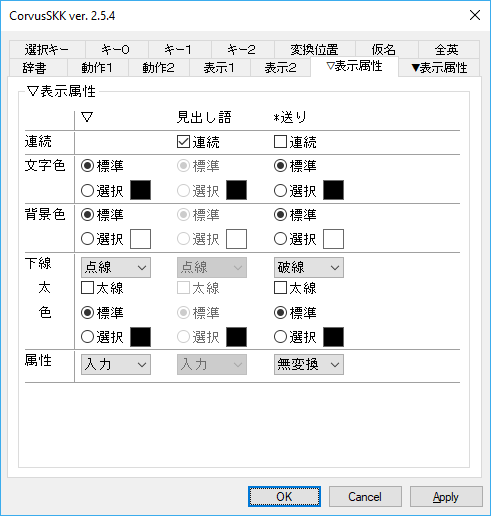
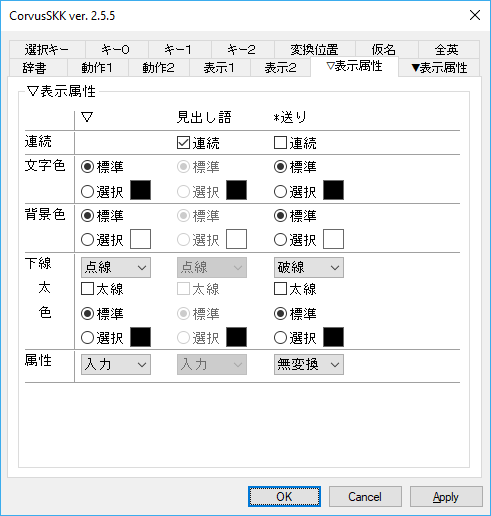
2.5.5
・候補一覧の色設定で色の選択ができなくなっていたバグを修正しました。

・設定ダイアログの各コントロールの高さとグループ設定を修正しました。

diff --git a/common/version.h b/common/version.h
@@ -9,12 +9,12 @@
 #define TEXTSERVICE_DESC	TEXTSERVICE_NAME L"_DEBUG"
 #endif
 #define TEXTSERVICE_DIR		L"IMCRVSKK"
-#define TEXTSERVICE_VER		L"2.5.4"
+#define TEXTSERVICE_VER		L"2.5.5"
 
 //for resource
 #define RC_AUTHOR			"nathancorvussolis"
 #define RC_PRODUCT			"CorvusSKK"
-#define RC_VERSION			"2.5.4"
-#define RC_VERSION_D		2,5,4,0
+#define RC_VERSION			"2.5.5"
+#define RC_VERSION_D		2,5,5,0
 
 #endif

diff --git a/README.md b/README.md
@@ -1,5 +1,5 @@
 
-# CorvusSKK ver. 2.5.4
+# CorvusSKK ver. 2.5.5
 
 Windowsで動作するSKK風のIMEです。
 
